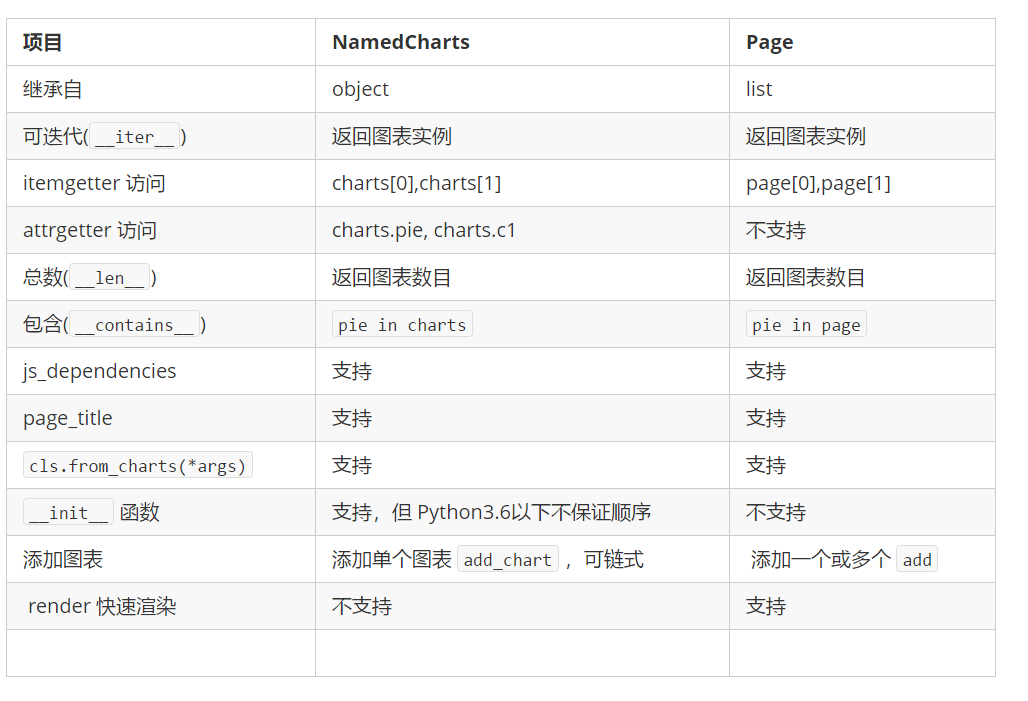
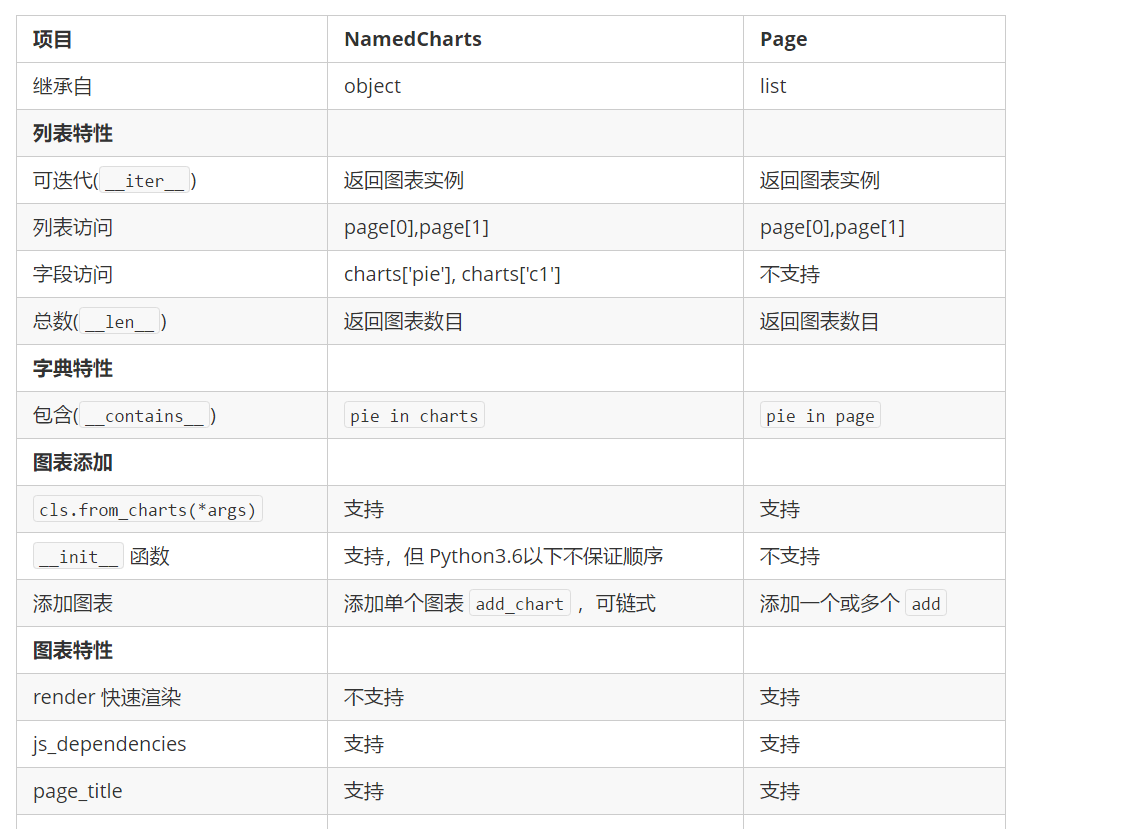
Refactor NamedCharts

diff --git a/django_echarts/datasets/charts.py b/django_echarts/datasets/charts.py
@@ -1,46 +1,51 @@
 # coding=utf8
-
+from collections import OrderedDict
 from django_echarts.utils.interfaces import merge_js_dependencies
 
 
 class NamedCharts:
     """
-    A list containing multiple named charts.
+    A data structure class containing multiple named charts.
     """
 
     def __init__(self, page_title='EChart', **kwargs):
         self.page_title = page_title
-        self._names = []
-        self._charts = []
-
-        for name, chart in kwargs.items():
-            self.add_chart(chart=chart, name=name)
+        self._charts = OrderedDict()
+        for k, v in kwargs.items():
+            self.add_chart(chart=v, name=k)
 
     def add_chart(self, chart, name=None):
         name = name or self._next_name()
-        self._names.append(name)
-        self._charts.append(chart)
+        self._charts[name] = chart
         return self
 
+    def _next_name(self):
+        return 'c{}'.format(len(self._charts))
+
+    # List-like feature
+
     def __iter__(self):
-        for chart in self._charts:
+        for chart in self._charts.values():
             yield chart
 
     def __len__(self):
         return len(self._charts)
 
+    # Dict-like feature
+
     def __contains__(self, item):
-        return item in self._names
+        return item in self._charts
 
-    def __getattr__(self, item):
-        try:
-            i = self._names.index(item)
-            return self._charts[i]
-        except ValueError:
-            return super().__getattr__(item)
+    def __getitem__(self, item):
+        if isinstance(item, int):
+            # c[1], Just compatible with Page
+            return list(self._charts.values())[item]
+        return self._charts[item]
 
-    def _next_name(self):
-        return 'c{}'.format(len(self._charts))
+    def __setitem__(self, key, value):
+        self._charts[key] = value
+
+    # Chart-like feature
 
     @property
     def js_dependencies(self):

diff --git a/tests/test_mcharts.py b/tests/test_mcharts.py
@@ -25,12 +25,15 @@ class MChartsTestCase(unittest.TestCase):
         ).add_chart(
             MockChart('Map Chart'), name='map'
         )
-        self.assertEqual('Line Chart', nc.line.page_title)
-        self.assertEqual('Bar Chart', nc.c1.page_title)
+        self.assertEqual('Line Chart', nc['line'].page_title)
+        self.assertEqual('Bar Chart', nc['c1'].page_title)
         self.assertListEqual(
             ['Line Chart', 'Bar Chart', 'Map Chart'],
             [c.page_title for c in nc]
         )
+        with self.assertRaises(KeyError):
+            c = nc['no_charts']
+        self.assertEqual('Bar Chart', nc[1].page_title)
 
 
 @unittest.skipUnless(PY36, 'Order-retained dictionary is not supported')
@@ -41,7 +44,7 @@ class MChartsPY36TestCase(unittest.TestCase):
             line=MockChart('Line Chart')
         )
         nc.add_chart(MockChart('Map Chart'), name='map')
-        self.assertEqual('Bar Chart', nc.bar.page_title)
+        self.assertEqual('Bar Chart', nc['bar'].page_title)
         self.assertListEqual(
             ['Bar Chart', 'Line Chart', 'Map Chart'],
             [c.page_title for c in nc]

diff --git a/docs/topics.rst b/docs/topics.rst
@@ -155,7 +155,8 @@ django_echarts 提供两种方式的渲染视图，即：
 基本使用
 ++++++++
 
-视图代码
+
+在创建一个 `NamedCharts` 实例 `charts` ，后，使用 `add_chart` 添加一个图表对象，可以使用 `name` 为之起一个引用名称，如果没有指定引用名称，则使用 c0,c1 命名。
 
 ::
 
@@ -174,25 +175,50 @@ django_echarts 提供两种方式的渲染视图，即：
             names, lifes = fetch(battery_lifes, 'name', 'battery_life')
             bar = Bar('设备电量', page_title='设备电量', width='100%')
             bar.add("设备电量", names, lifes)
-            charts = NamedCharts().add_chart(pie, name='pie').add_chart(bar, name='bar')
+            charts = NamedCharts().add_chart(pie, name='pie').add_chart(bar)
             return charts
 
-在创建一个 `NamedCharts` 实例 `charts` ，后，使用 `add_chart` 添加一个图表对象，可以使用 `name` 为之起一个引用变量，之后可以像属性一样访问该图表对象。
+元素访问
+++++++++
+
+.. versionchanged:: 0.3.5
+   图表访问方式从 *属性访问* 改为 *字典访问* 。
+
+对于 包含若干图表的 `NamedCharts` 实例，可以像字典一样访问该图表对象。
+
+Python 代码的访问方式
 
 ::
 
-    print(charts.pie.page_title) # 等价于 charts[0].page_title
+    # 访问 pie 对象 page_title
+    print(charts['pie'].page_title)
 
-但是在 Django 模板中不推荐使用 `{{ charts.0.page_title }}` 的方式引用列表的元素，可以使用 `{{ charts.pie.page_title }}` 。
+    # 访问 bar 对象 page_title
+    print(charts['c1'].page_title) # 推荐
+    print(charts[1].page_title) # 不再推荐
+
+模板代码的访问方式：
+
+::
+
+    {{ charts.pie.page_title }}
+    {{ charts.c1.page_title }}
+
+注意
+
+::
+
+    无论是 Jinja2 模板还是 Django 模板，均不提倡使用 `charts.1` 形式访问列表中的某一个元素。
 
 NamedCharts VS Page
 +++++++++++++++++++
 
-区别。
+`NamedCharts` 内部使用 `collections.OrderedDict` 保存图表名称和实例，支持字典访问方式，同时扩展原有的 `Page` 的列表特性。
+
+具体差别如下表：
 
 .. image:: /_static/namedcharts-vs-page.png
 
-`NamedCharts` 内部使用两个列表分别保存图表名称和实例，对外保持一个列表的相关方法，同时支持属性访问，
 
 模板标签
 ---------
@@ -352,7 +378,7 @@ django-echarts 提供了一个包含若干个命令的 CLI 工具，这些命令
 ++++++++
 
 .. versionadded:: 0.2.2
-   新增 `download_lib_js` 和 `download_map_js` 命令。
+    新增 `download_lib_js` 和 `download_map_js` 命令。
 
 django-echarts 提供了一些下载命令，可以从远程地址下载文件到项目的静态目录中。这些命令包括：
 
